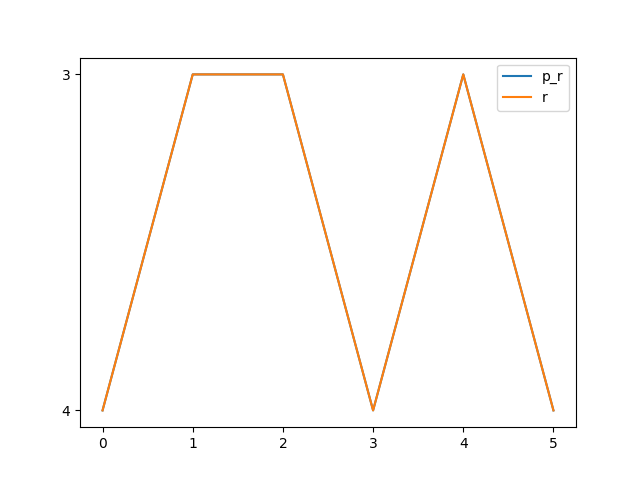
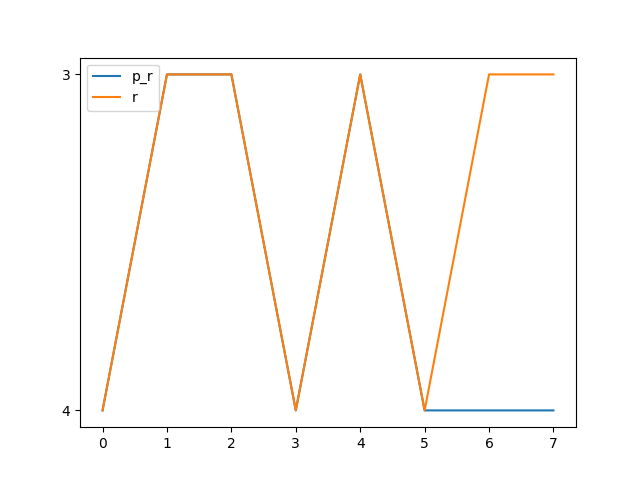
0x0007

diff --git a/benchmark.md b/benchmark.md
@@ -14,7 +14,9 @@ Synthesising 0x0005 pexact:182 r=4 exact:352 r=4
 
 Synthesising 0x0006 pexact:208 r=4 exact:224 r=3
 
-<img src=benchmark_r0.png width=400 heigth=400>
+Synthesising 0x0007 pexact:182 r=4 exact:192 r=3
 
-<img src=benchmark_s0.png width=400 heigth=400>
+<img src=benchmark_r1.png width=400 heigth=400>
+
+<img src=benchmark_s1.png width=400 heigth=400>
 
